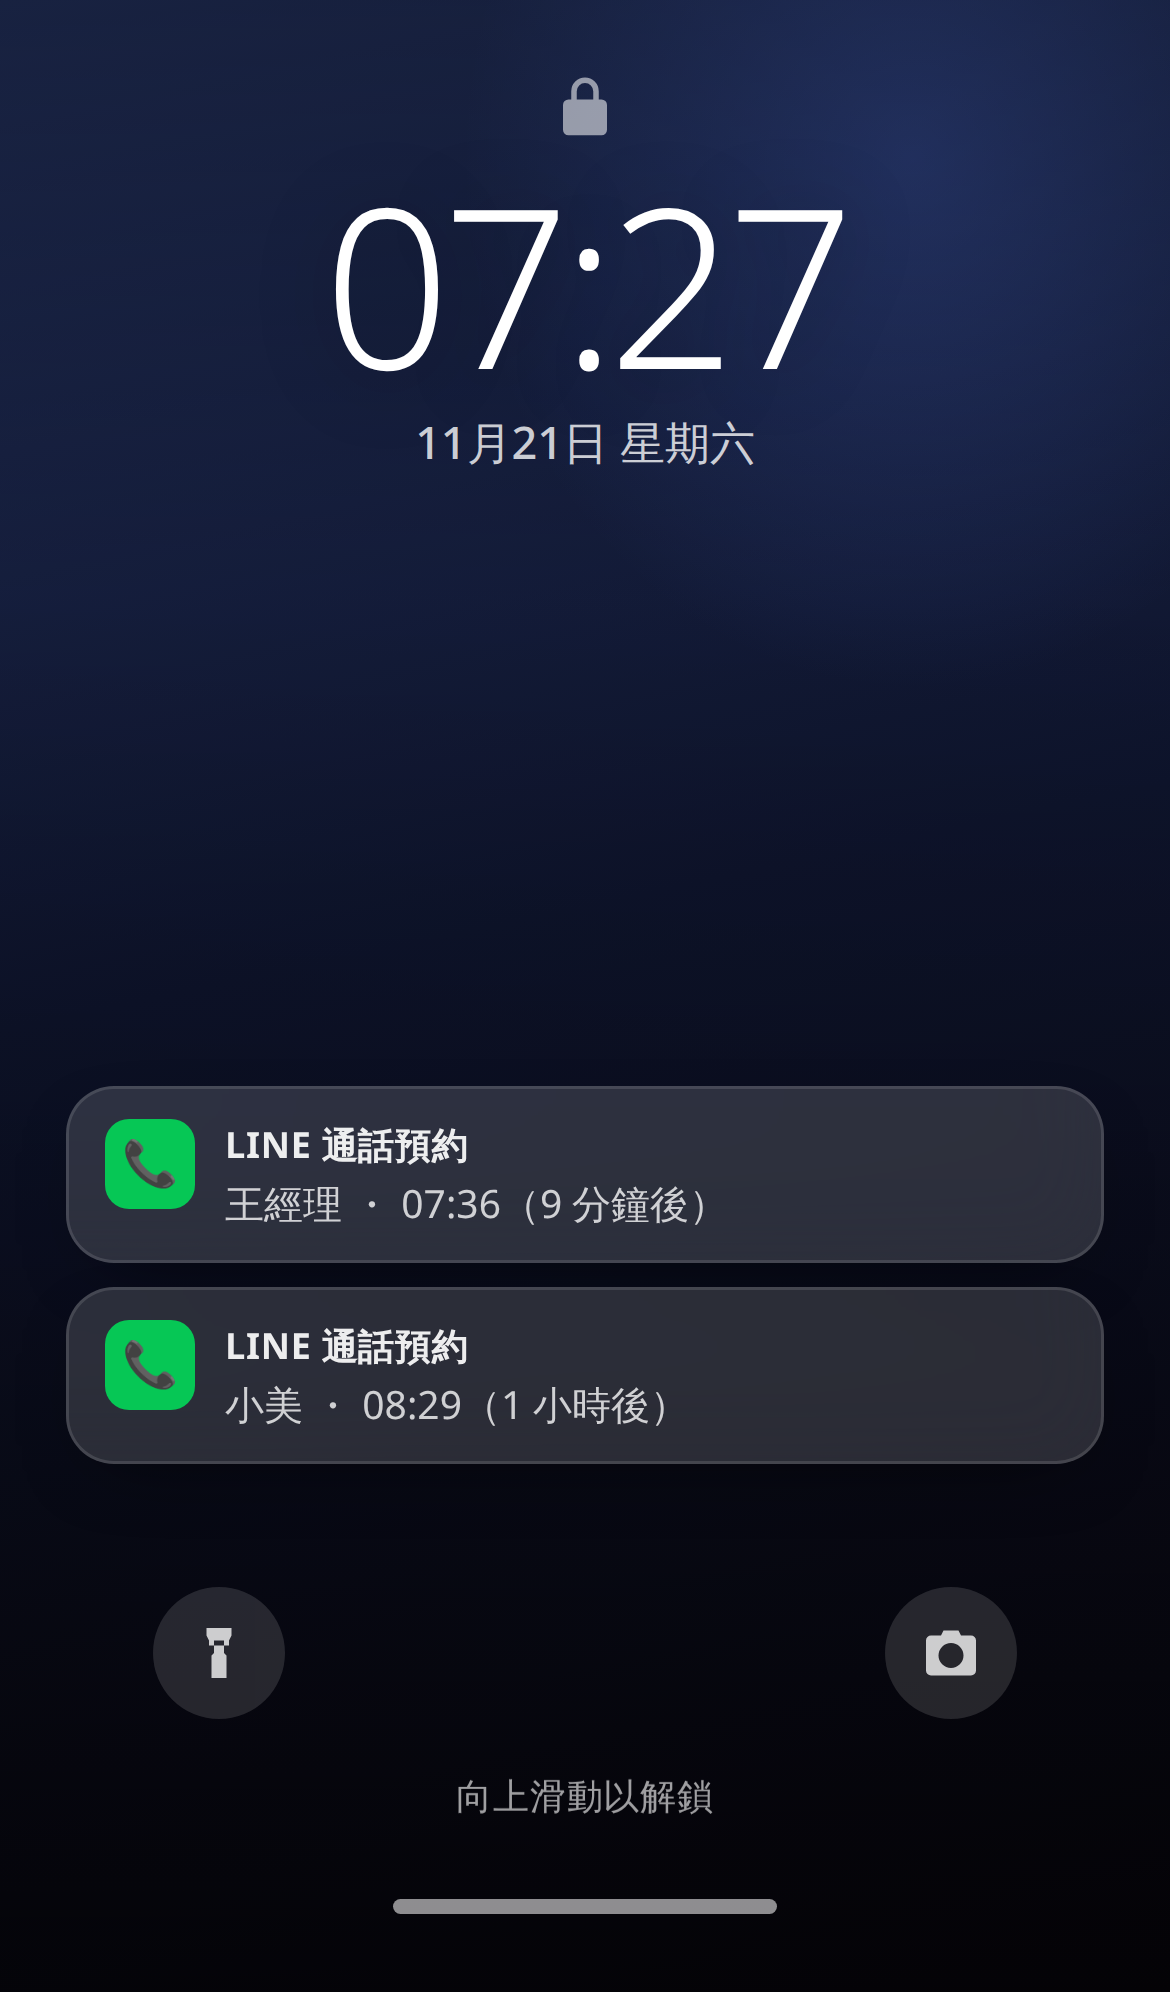
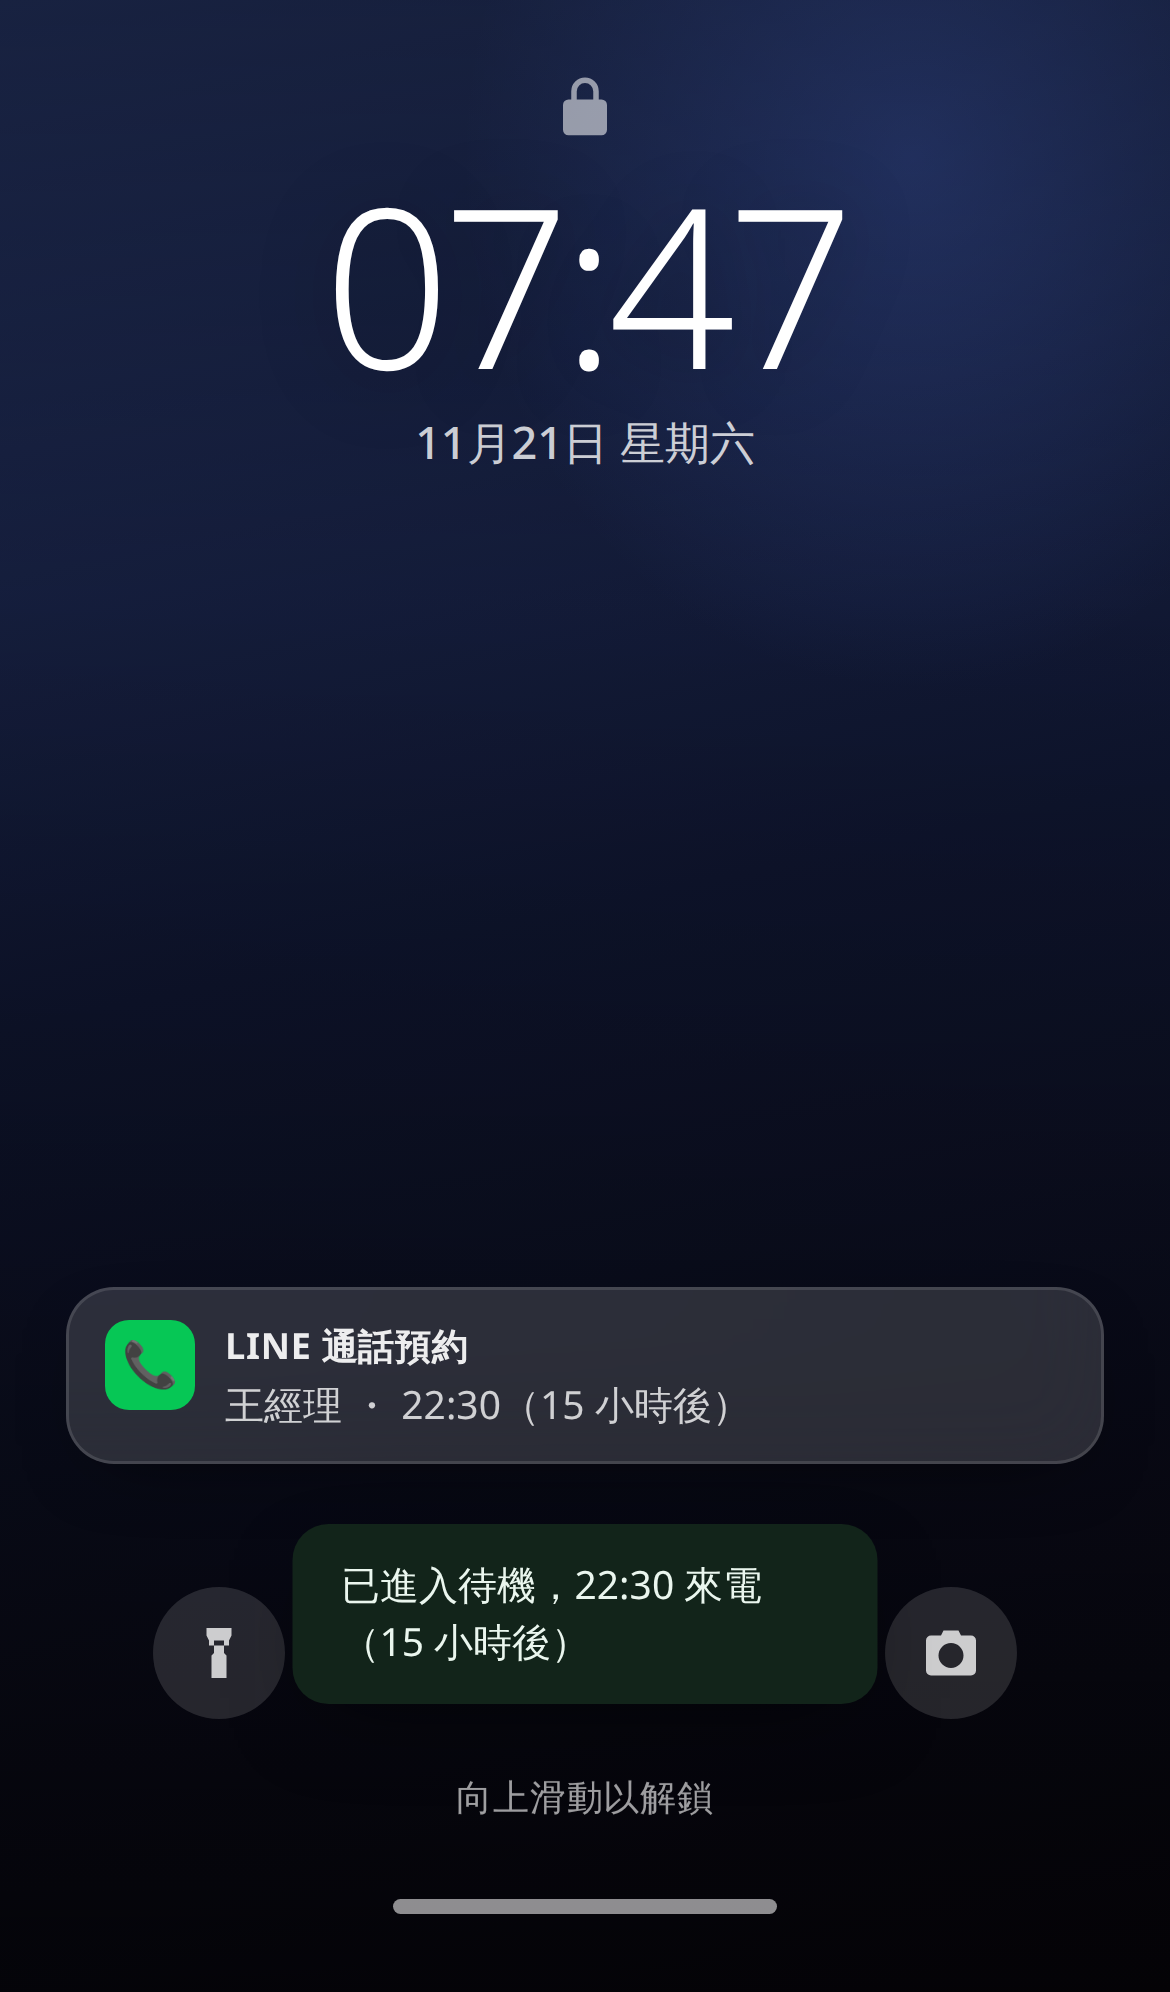
重排流程：控制台為入口，排定預約後自動進入待機，掛斷後回待機

diff --git a/index.html b/index.html
@@ -81,6 +81,7 @@
 
   /* ---------- buttons ---------- */
   .grid2 { display: grid; grid-template-columns: 1fr 1fr; gap: 10px; margin-top: 14px; }
+  .btn.wide { grid-column: 1 / -1; }
   .btn {
     display: inline-flex; align-items: center; justify-content: center; gap: 8px;
     height: 52px; padding: 0 16px; border: 0; border-radius: 15px;
@@ -412,7 +413,11 @@
   </section>
 
   <div class="grid2">
-    <button class="btn primary" id="btnRingNow">
+    <button class="btn primary wide" id="btnStandby">
+      <svg viewBox="0 0 24 24" aria-hidden="true"><path d="M12 2a5 5 0 0 0-5 5v3H6a2 2 0 0 0-2 2v9a2 2 0 0 0 2 2h12a2 2 0 0 0 2-2V12a2 2 0 0 0-2-2h-1V7a5 5 0 0 0-5-5zm3 5v3H9V7a3 3 0 0 1 6 0z"/></svg>
+      進入待機畫面
+    </button>
+    <button class="btn ghost" id="btnRingNow">
       <svg viewBox="0 0 24 24" aria-hidden="true"><path d="M6.6 10.8c1.4 2.8 3.8 5.2 6.6 6.6l2.2-2.2c.3-.3.7-.4 1-.2 1.1.4 2.3.6 3.6.6.6 0 1 .4 1 1V20c0 .6-.4 1-1 1C10.6 21 3 13.4 3 4c0-.6.4-1 1-1h3.5c.6 0 1 .4 1 1 0 1.3.2 2.5.6 3.6.1.3 0 .7-.2 1l-2.3 2.2z"/></svg>
       立即來電
     </button>
@@ -511,8 +516,8 @@
 
     <div class="sep"></div>
     <div class="card-head" style="margin-bottom:10px"><h2 style="font-size:14px">待機螢幕</h2><span class="hint">鎖定畫面樣式</span></div>
-    <div class="row" style="gap:18px">
-      <label class="switch"><input type="checkbox" id="sbToggle"><span>開啟待機畫面</span></label>
+    <div class="row">
+      <label class="switch"><input type="checkbox" id="sbToggle"><span>排定預約後自動進入待機</span></label>
     </div>
     <div class="row">
       <label class="btn small ghost file-btn">
@@ -523,8 +528,9 @@
       <button class="del" id="sbWallClear" aria-label="移除桌布" hidden>×</button>
     </div>
     <p class="tone-note">
-      開啟後，首頁會先顯示手機待機畫面（時間、日期、預約通知），點一下或向上滑即可解除。
-      待機時來電，會像 iOS 一樣由來電畫面直接蓋在鎖定畫面上；掛斷後回到待機畫面。
+      待機畫面就像手機放下鎖定：顯示時間、日期與預約通知。從上方「進入待機畫面」按鈕進入，
+      排定預約後也會自動進入。點一下或向上滑即可回控制台。
+      待機時來電會直接蓋在鎖定畫面上，掛斷後回到待機。
     </p>
   </section>
 
@@ -550,7 +556,7 @@
 </div>
 
 <!-- ================= 待機螢幕 ================= -->
-<div class="standby" id="standby" role="region" aria-label="手機待機畫面">
+<div class="standby" id="standby" role="region" aria-label="手機待機畫面" hidden>
   <div class="sb-bg" id="sbBg"></div>
   <div class="sb-inner">
     <svg class="sb-lock" viewBox="0 0 24 24" aria-hidden="true"><path d="M12 2a5 5 0 0 0-5 5v3H6a2 2 0 0 0-2 2v9a2 2 0 0 0 2 2h12a2 2 0 0 0 2-2V12a2 2 0 0 0-2-2h-1V7a5 5 0 0 0-5-5zm3 5v3H9V7a3 3 0 0 1 6 0z" fill="currentColor"/></svg>
@@ -724,6 +730,7 @@
     callAvatarText: $("callAvatarText"), callSub: $("callSub"),
     standby: $("standby"), sbClock: $("sbClock"), sbDate: $("sbDate"),
     sbNotifs: $("sbNotifs"), sbBg: $("sbBg"), sbUnlock: $("sbUnlock"),
+    btnStandby: $("btnStandby"),
     sbTorch: $("sbTorch"), sbCamera: $("sbCamera"),
     sbToggle: $("sbToggle"), sbWallFile: $("sbWallFile"),
     sbWallName: $("sbWallName"), sbWallClear: $("sbWallClear"),
@@ -1010,8 +1017,18 @@
     el.sbNotifs.innerHTML = items.join("");
   }
 
+  // 排定預約後自動放下手機：只有在「自動進入待機」開啟時才切換
+  function autoStandby() {
+    if (!db.standby || !db.schedules.length || call) return;
+    const nxt = [...db.schedules].sort((a, b) => a.at - b.at)[0];
+    if (!nxt) return;
+    showStandby();
+    const mins = Math.round((nxt.at - Date.now()) / 60000);
+    const eta = mins <= 0 ? "現在" : mins < 60 ? `${mins} 分鐘後` : `${Math.round(mins / 60)} 小時後`;
+    showToast(`已進入待機，${clock(nxt.at)} 來電（${eta}）`);
+  }
+
   function showStandby() {
-    if (!db.standby) return;
     if (call) return;               // 通話中不要跳回待機
     standbyOn = true;
     renderStandby();
@@ -1022,6 +1039,7 @@
 
   function hideStandby() {
     if (!standbyOn) return;
+    window.scrollTo({ top: 0, behavior: "instant" in window ? "instant" : "auto" });
     standbyOn = false;
     el.standby.classList.remove("show");
     setTimeout(() => { el.standby.hidden = true; }, 260);
@@ -1208,7 +1226,9 @@
     }
     db.schedules.sort((a, b) => a.at - b.at);
 
+    const hadSched = editing.scheds.length;
     save(); renderContacts(); renderSchedules(); updateStatus(); closeSheet();
+    if (hadSched) autoStandby();
   }
 
   function deleteContact() {
@@ -1745,9 +1765,14 @@
 
   el.sbCamera.addEventListener("click", () => showToast("相機（示意，網頁無法開啟）"));
 
+  el.btnStandby.addEventListener("click", () => {
+    unlockAudio();
+    showStandby();
+  });
+
   el.sbToggle.addEventListener("change", () => {
     db.standby = el.sbToggle.checked; save();
-    if (db.standby) showStandby(); else hideStandby();
+    showToast(db.standby ? "排定預約後會自動進入待機" : "排定預約後會留在控制台");
   });
 
   el.sbWallFile.addEventListener("change", async () => {
@@ -1874,6 +1899,7 @@
     const b = e.target.closest("button[data-min]");
     if (!b) return;
     addSchedule(Date.now() + Number(b.dataset.min) * 60000, el.schedWho.value);
+    autoStandby();
   });
 
   el.btnSchedule.addEventListener("click", () => {
@@ -1882,6 +1908,7 @@
     const at = timeToStamp(t);
     addSchedule(at, el.schedWho.value);
     showToast(`已排定 ${dayLabel(at)} ${clock(at)} 來電`);
+    autoStandby();
   });
 
   el.schedList.addEventListener("click", (e) => {
@@ -1979,7 +2006,7 @@
   /* ---------------- init ---------------- */
   renderSettings();
   renderSbSettings();
-  loadWallpaper().then(() => { if (db.standby) showStandby(); });
+  loadWallpaper();
   renderContacts();
   renderSchedules();
   renderLog();

diff --git a/sw.js b/sw.js
@@ -1,6 +1,6 @@
 /* 來電模擬器 — service worker
    策略：導覽請求 network-first（拿到新版就更新快取），靜態資源 cache-first。 */
-const VERSION = "v8";
+const VERSION = "v9";
 const CACHE = `line-call-sim-${VERSION}`;
 const ASSETS = [
   "./",

diff --git a/README.md b/README.md
@@ -21,7 +21,8 @@
 - **響鈴秒數** 5–60 秒，逾時自動記為未接
 - **最近通話**紀錄（已接聽／未接／已拒接，含通話長度），存在 localStorage
 - 來電畫面會帶出該聯絡人的頭像；沒有照片時顯示名稱第一個字（或自訂頭像字）
-- **待機螢幕**：首頁先顯示手機鎖定畫面（時間、日期、預約通知、桌布），點一下或向上滑解鎖
+- **待機螢幕**：控制台按「進入待機畫面」或排定預約後自動進入，模擬手機放下鎖定（時間、日期、預約通知、桌布）；
+  點一下或向上滑回控制台。待機時來電直接蓋在鎖定畫面上，掛斷後回到待機
 - **通訊錄**：每位聯絡人可設名稱與頭像（照片或文字頭像），點「來電」立即模擬
 - **預約**：可在通訊錄編輯畫面直接為該聯絡人設定預約時間（時間到了自動響鈴）
 - **接通語音**：接聽後播放一段語音，模擬對方說話；**沒設定就不會有聲音**
